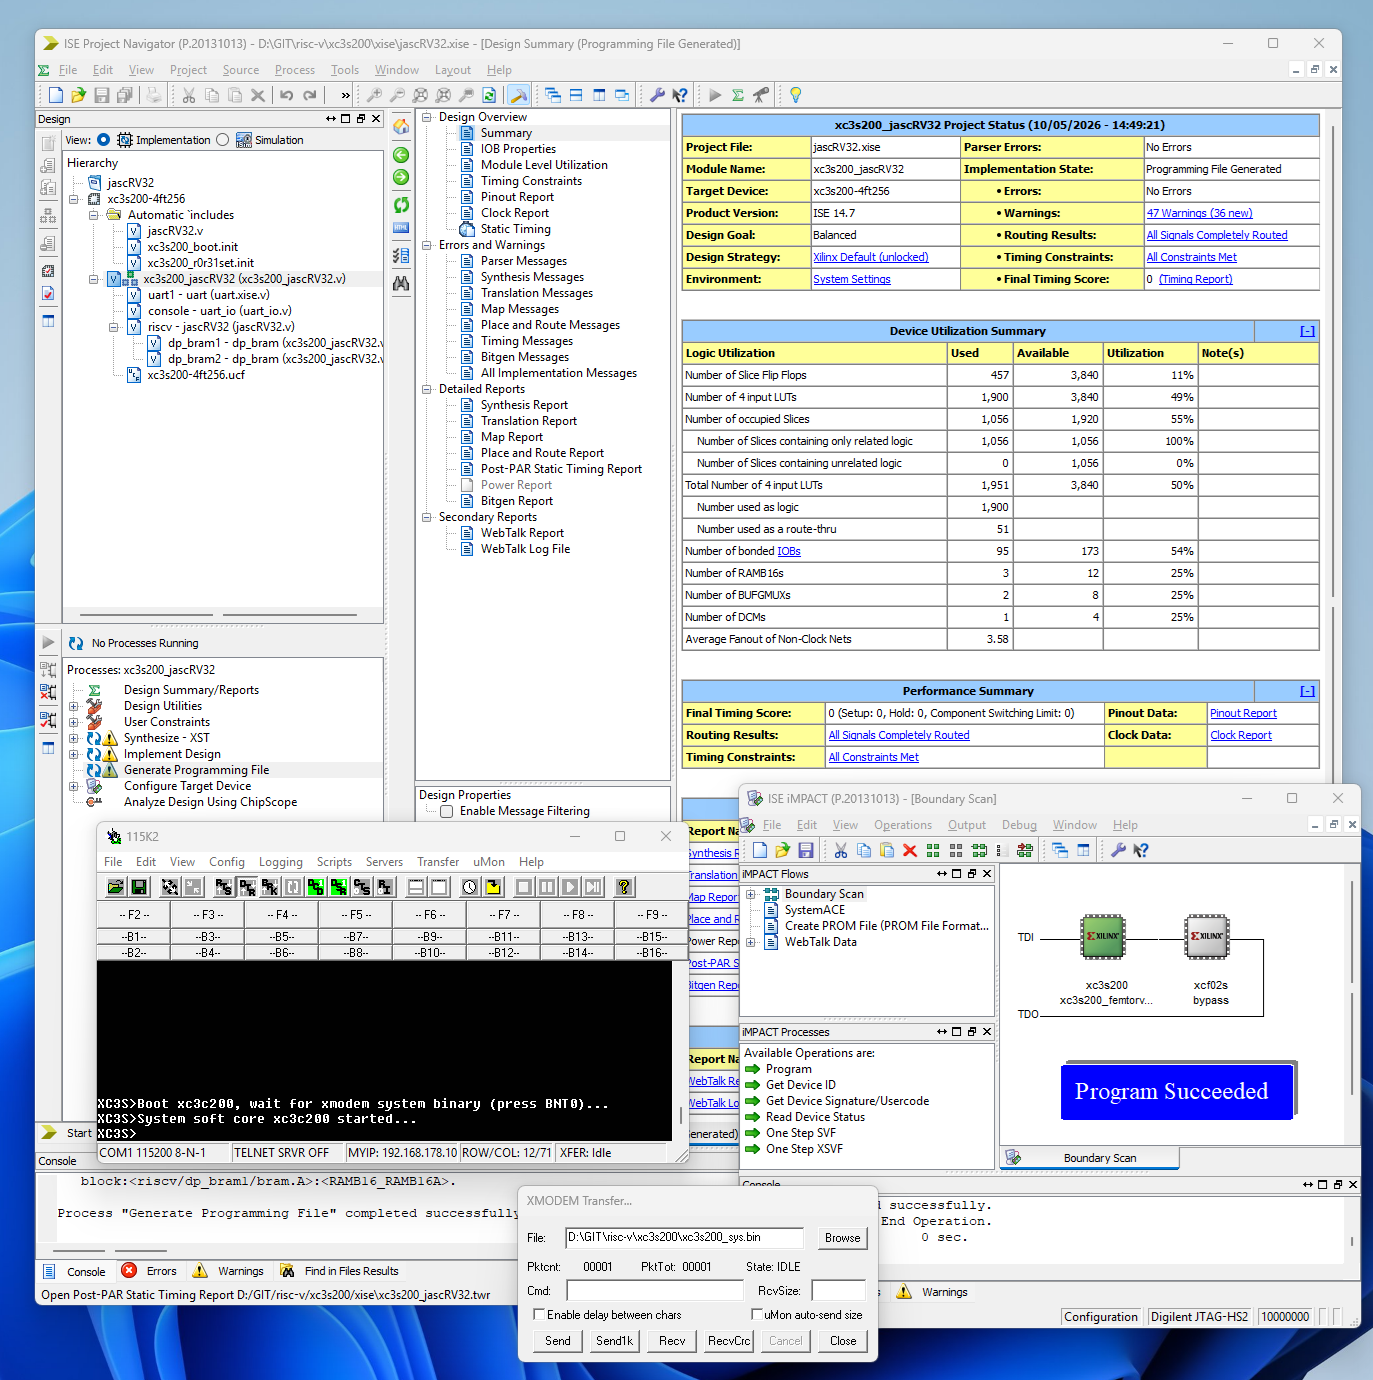
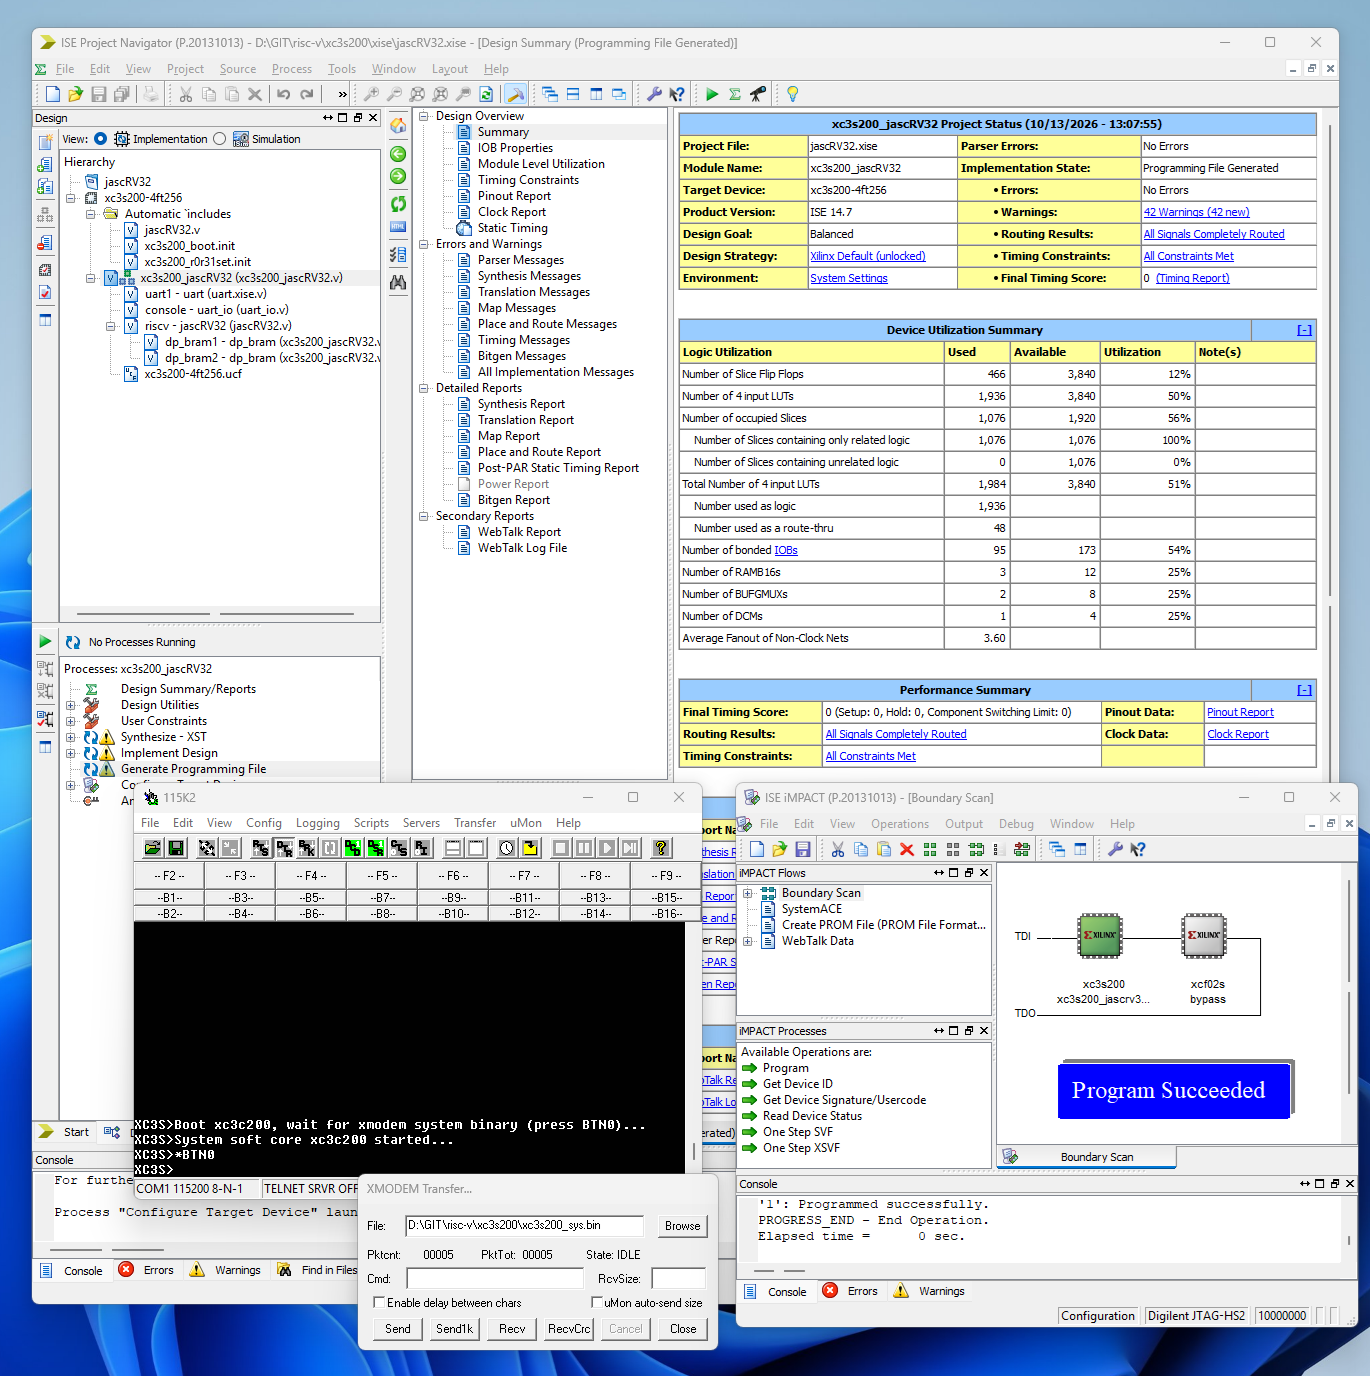
Update

Changed region(s): [[0.0, 0.0, 1.0, 1.0], [0.7664, 0.9375, 1.0, 1.0], [0.9504, 0.5938, 1.0, 0.625]]

diff --git a/src/xc3s200_sys.c b/src/xc3s200_sys.c
@@ -92,38 +92,39 @@ char* const p2 = "2\r";
 void printBtn0() {
     putChar( pBTN );
     putChar( p0 );
-    *pLED_R0R31 = 0; // Set R0R31 to run()
 }
 
 void printBtn1() {
     putChar( pBTN );
     putChar( p1 );
-    *pLED_R0R31 = 0; // Set R0R31 to run()
 }
 
 void printBtn2() {
     putChar( pBTN );
     putChar( p2 );
-    *pLED_R0R31 = 0; // Set R0R31 to run()
 }
 
 void run() {
-    static int booted = 0;
+    int r0r31sel = (( getBtnR0R31sel() & R0R31_MASK ) >> 8 );
+    // Sets stack top for every R0R31 set!
+    if ( 1 == r0r31sel ) asm volatile( "la sp,_stack_top-100" );
+    if ( 2 == r0r31sel ) asm volatile( "la sp,_stack_top-200" );
+    if ( 3 == r0r31sel ) asm volatile( "la sp,_stack_top-300" );
 
-    if ( booted != 1 ) {
+    if ( 0 == r0r31sel ) {
         putChar( pSysString );
-        booted = 1;
         // Initialize global variables! Could be located in XMODEM end-of-file section.
         btn0 = 0;
         btn1 = 0;
         btn2 = 0;
-    } else {
-        int r0r31sel = (( getBtnR0R31sel() & R0R31_MASK ) >> 8 );
+    } else { // R0R31 set > 0!
+        putChar( pAterisk );
 
-        if ( r0r31sel ) putChar( pAterisk ); // R0R31 set > 0!
         if ( 1 == r0r31sel ) printBtn0();
         if ( 2 == r0r31sel ) printBtn1();
         if ( 3 == r0r31sel ) printBtn2();
+
+        *pLED_R0R31 = 0; // Return to while loop
     }
 
     while ( 1 ) {
